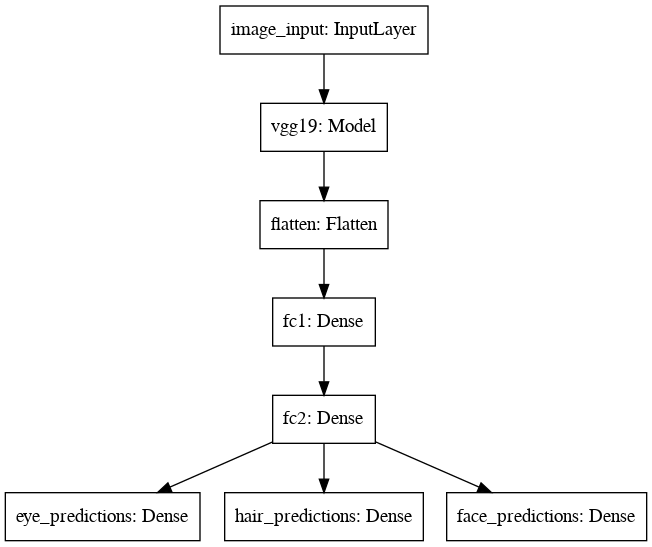
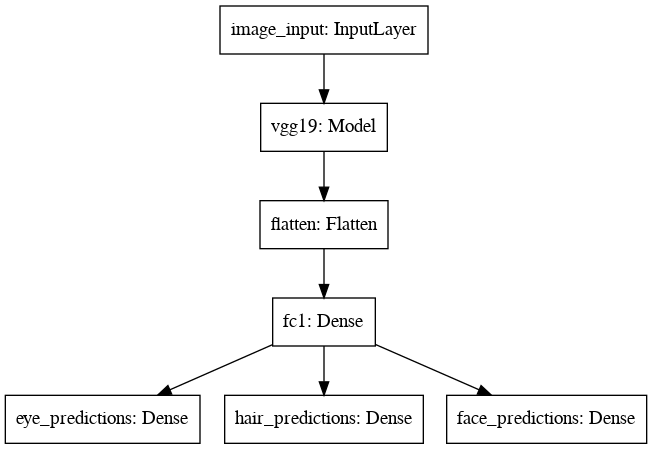
my_utils.py added

Changed region(s): [[0.0, 0.1559, 1.0, 0.9978], [0.3374, 0.0, 0.6748, 0.1247]]

diff --git a/vgg19_face_attributes.py b/vgg19_face_attributes.py
@@ -4,58 +4,29 @@ from keras.layers import Flatten, Input, Dense
 from keras.models import Model
 from keras.utils import plot_model
 
-import sys, getopt
+from my_utils import load_args
+
+import sys
 import numpy as np
     
-image_path = "cat.jpg"
-weights_path = None
-train_model = False
-
-args_array = ["image_path=", "train_model=", "weights_path="]
-
 labels = ["eyes"] * 3
 
-def load_args(argv):
-    '''
-    Load the arguments given by the user
-    '''
-    global image_path
-    global weights_path
-    
-    try:
-        opts, args = getopt.getopt(argv, "i:t:w:", args_array)
-    except getopt.GetoptError:
-        print ('Invalid option', argv)
-        sys.exit(2)
-    for opt, arg in opts:
-        if opt in ("-i", "--image_path"):
-            image_path = arg
-        elif opt in ("-t", "--train_model"):
-            if arg in (True, False):
-                train_model = arg
-            else:
-                print ('Invalid option', opt, arg)
-                sys.exit(2)
-        elif opt in ("-w", "--weights_path"):
-            weights_path = arg
-        else:
-            print ('Invalid option', argv)
-            sys.exit(2)
-
-def load_model(weights_path = None):
+def load_model (weights_path = None):
     '''
     Load the model for the Neural Network
     '''
-    
+
     model = VGG19(include_top=False, weights=None, input_tensor=None, input_shape=(224, 224, 3))
-    model.summary()
     
+    print ("VGG19 Model:")
+    model.summary()
+
     input_layer = Input(shape=(224,224,3), name = 'image_input')
     last_layer = model(input_layer)
-    
+
     x = Flatten(name='flatten')(last_layer)
     x = Dense(4096, activation='relu', name='fc1')(x)
-    x = Dense(4096, activation='relu', name='fc2')(x)
+    
     output_layers = ( 
         Dense(3, activation='softmax', name='eye_predictions')(x), 
         Dense(5, activation='softmax', name='hair_predictions')(x), 
@@ -66,13 +37,14 @@ def load_model(weights_path = None):
     
     if weights_path != None:
         model.load_weights(weights_path)
+        
+    print ("Our Model:")
     model.summary()
     plot_model(model, to_file='model.png')
     
-    
     return model
 
-def predict(image_path):
+def predict (image_path):
     img = image.load_img(image_path, target_size=(224, 224))
     x = image.img_to_array(img)
     x = np.expand_dims(x, axis=0)
@@ -80,14 +52,26 @@ def predict(image_path):
     preds = model.predict(x)
     return preds
 
+def train ():
+    pass
+
 if __name__ == "__main__":
-    print(len(labels))
-    load_args(sys.argv[1:])
+    
+    args_map = load_args( sys.argv[1:] )
+    
+    image_path = args_map["image_path"]
+    weights_path = args_map["weights_path"]
+    train_model = args_map["train_model"]
     
     print ("Loading model...")
     model = load_model(weights_path)
     print ("Model loaded.")
     
-    print ("Predicting...")
-    preds = predict(image_path)
-    print ('Predicted:', preds)
+    if (image_path != None):
+        print ("Predicting...")
+        preds = predict(image_path)
+        print ('Predicted:', preds)
+
+    if (train_model == True):
+        print ("Training...")
+        

diff --git a/my_utils.py b/my_utils.py
@@ -1,0 +1,50 @@
+import sys, getopt
+
+def load_attributes(file_path):
+    f = open(file_path, "r")
+    
+    attr = {
+        "img_count": int( f.readline() ),
+        "labels": [],
+        "images": {}
+        }
+    
+    attr["labels"] = [label for label in f.readline().split(" ")]
+    
+    for i in range(atrr["img_count"]):
+        pass
+
+def load_file(file_path):
+    f = open(file_path, "r")
+    return f
+
+def load_args(argv):
+    '''
+    Load the arguments given by the user
+    '''
+    
+    args_array = ["image_path", "train_model", "weights_path"]
+    
+    args_map = { key : None for key in args_array}
+    
+    try:
+        opts, args = getopt.getopt(argv, "i:t:w:", [arg + "=" for arg in args_array])
+    except getopt.GetoptError:
+        print ('Invalid option', argv)
+        sys.exit(2)
+    for opt, arg in opts:
+        if opt in ("-i", "--image_path"):
+            args_map["image_path"] = arg
+        elif opt in ("-t", "--train_model"):
+            if arg in (True, False):
+                args_map["train_model"] = arg
+            else:
+                print ('Invalid option', opt, arg)
+                sys.exit(2)
+        elif opt in ("-w", "--weights_path"):
+            args_map["weights_path"] = arg
+        else:
+            print ('Invalid option', argv)
+            sys.exit(2)
+            
+    return args_map
